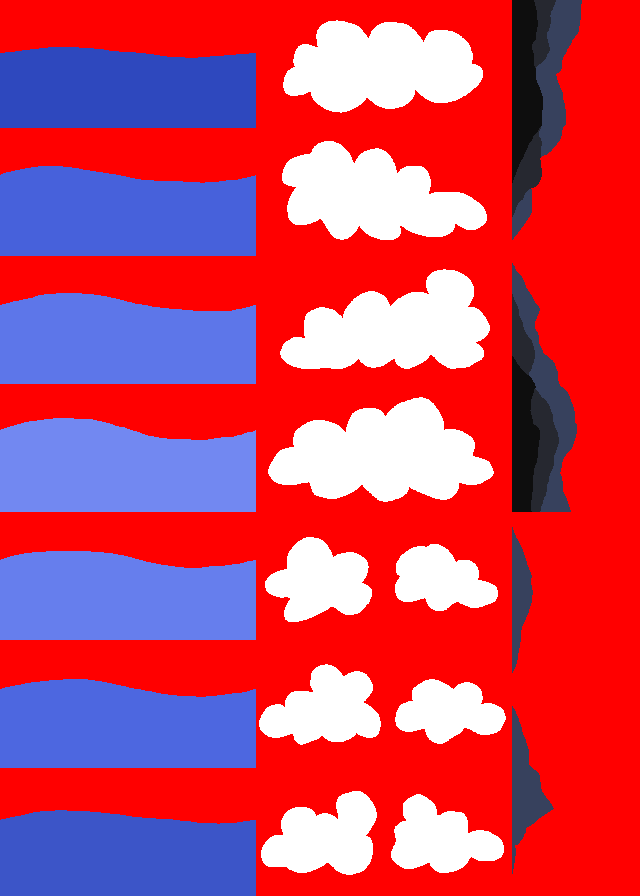
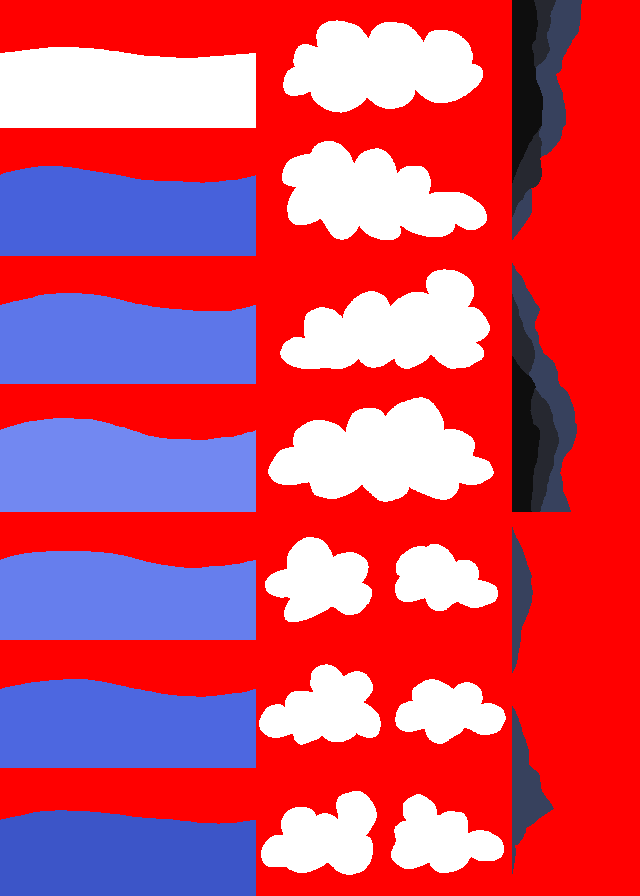
* changed wave sprites for background to be generated in a similar way to sortie select by recoloring a master wave sprite * this enables recoloring the wave sprite for different weather conditions * fixed a bug where the player could reassign the shipgirl target during attack animation, which cause

Changed region(s): [[0.0, 0.0312, 0.4062, 0.1562]]

diff --git a/src/menus/encounter_menu.py b/src/menus/encounter_menu.py
@@ -59,11 +59,12 @@ class BackgroundProp:
 class Background:
     Y_GAP = 48
 
-    def __init__(self, sky_colors):
+    def __init__(self, sky_colors, wave_sprites):
         self.set_sky_colors(sky_colors)
+        self.wave_sprites = wave_sprites
         num_waves = DataFiles.sprites["background"]["num_waves"]
         self.wave_ys = [
-            screen_y(0.5) + self.Y_GAP*(i-num_waves/2)
+            screen_y(0.5) + self.Y_GAP*(i-num_waves/2) + 8
             for i in range(num_waves)
         ]
         self.wave_timers = [
@@ -80,6 +81,9 @@ class Background:
         for y, color in enumerate(sky_colors):
             sky_surf.set_at((0, y), color)
         self.sky_surf = pygame.transform.smoothscale(sky_surf, (128, 256))
+
+    def set_wave_sprites(self, weather):
+        self.wave_sprites = DataFiles.sprites["background"]["wave_sets"][weather]
 
     def update(self, dt):
         num_waves = DataFiles.sprites["background"]["num_waves"]
@@ -131,22 +135,24 @@ class Background:
         else:
             shipgirl_draw_indices = None
 
+        landmark_y = self.wave_ys[0] - 4
+
         left_landmarks = DataFiles.sprites["background"]["left_landmarks"]
         left_landmarks_rect = left_landmarks.get_rect()
         left_landmarks_rect.left = screen_x(0)
-        left_landmarks_rect.centery = self.wave_ys[0]
+        left_landmarks_rect.centery = landmark_y
         surface.blit(left_landmarks, left_landmarks_rect)
 
         middle_landmarks = DataFiles.sprites["background"]["middle_landmarks"]
         middle_landmarks_rect = middle_landmarks.get_rect()
         middle_landmarks_rect.centerx = screen_x(0.5)
-        middle_landmarks_rect.centery = self.wave_ys[0]
+        middle_landmarks_rect.centery = landmark_y
         surface.blit(middle_landmarks, middle_landmarks_rect)
         
         right_landmarks = DataFiles.sprites["background"]["right_landmarks"]
         right_landmarks_rect = right_landmarks.get_rect()
         right_landmarks_rect.right = screen_x(1)
-        right_landmarks_rect.centery = self.wave_ys[0]
+        right_landmarks_rect.centery = landmark_y
         surface.blit(right_landmarks, right_landmarks_rect)
 
         num_waves = DataFiles.sprites["background"]["num_waves"]
@@ -166,7 +172,7 @@ class Background:
                         siren.battle_component.draw_battlestation(surface, font_registry, siren.rect)
 
             move_amt = i / num_waves
-            wave = DataFiles.sprites["background"][f"wave{i}"]
+            wave = self.wave_sprites[i]
             wave_rect = wave.get_rect()
             wave_rect.top = wave_y + 4 * (move_amt + 1) * math.sin(2*wave_timer)
             centerx = 64 * (move_amt + 1) * math.sin(wave_timer) + screen_x(0.5)
@@ -364,7 +370,10 @@ class EncounterMenu:
             ) for slot in self.fleet_slots
         ]
 
-        self.background = Background(self.TIME_WEATHER_STYLES[self.time_weather]["sky_colors"])
+        self.background = Background(
+            self.TIME_WEATHER_STYLES[self.time_weather]["sky_colors"],
+            DataFiles.sprites["background"]["wave_sets"][self.time_weather],
+        )
 
     def roll_time_weather(self):
         weather_names = list(self.TIME_WEATHER_STYLES.keys())
@@ -378,6 +387,7 @@ class EncounterMenu:
     def apply_time_weather_style(self):
         weather_style = self.TIME_WEATHER_STYLES[self.time_weather]
         self.background.set_sky_colors(weather_style["sky_colors"])
+        self.background.set_wave_sprites(self.time_weather)
 
     def begin_sortie(self):
         self.roll_time_weather()
@@ -431,21 +441,20 @@ class EncounterMenu:
                 self.return_to_port_button.hover(event.pos)
             if event.type == pygame.MOUSEBUTTONDOWN:
                 for i, shipgirl in enumerate(self.menu_manager.player_fleet.shipgirls):
-                    if (
-                        shipgirl is not None
-                        and (
-                            not shipgirl.battle_component.active
-                            or (
-                                shipgirl.battle_component.active
-                                and shipgirl.battle_component.attack_timer <= 0
-                            )
-                        )
-                        and shipgirl.rect.collidepoint(event.pos)
-                    ):
-                        self.mouse_start_drag = shipgirl.rect.center
-                        self.selected_shipgirl = shipgirl
-                        self.selected_shipgirl_index = i
-                        self.selected_shipgirl.battle_component.target = None
+                    if shipgirl is None:
+                        continue
+                    if not shipgirl.battle_component.active:
+                        continue
+                    if shipgirl.battle_component.attack_animation:
+                        continue
+                    if shipgirl.battle_component.attack_timer > 0:
+                        continue
+                    if not shipgirl.rect.collidepoint(event.pos):
+                        continue
+                    self.mouse_start_drag = shipgirl.rect.center
+                    self.selected_shipgirl = shipgirl
+                    self.selected_shipgirl_index = i
+                    self.selected_shipgirl.battle_component.target = None
             if event.type == pygame.MOUSEBUTTONUP:
                 mouse_end_drag = event.pos
                 click = False

diff --git a/src/constants.py b/src/constants.py
@@ -214,19 +214,42 @@ create_shell_sprite("normal", (255, 242, 97))
 create_shell_sprite("HE", (255, 0, 64))
 create_shell_sprite("AP", (0, 255, 255))
 
-def create_background_wave_sprite(wave_index):
-    wave = DataFiles.sprites["background"][f"wave{wave_index}"]
+def create_background_wave_sprite(wave_color):
+    wave = DataFiles.sprites["background"]["wave"]
     higher_wave = pygame.Surface((wave.get_width(), 2*wave.get_height()))
-    wave_color = wave.get_at((0, wave.get_height()-1))
     higher_wave.fill(wave_color)
-    wave.set_colorkey(wave_color)
+    wave.set_colorkey((255,255,255))
     higher_wave.blit(wave, (0,0))
     higher_wave.set_colorkey((255,0,0))
-    DataFiles.sprites["background"][f"wave{wave_index}"] = higher_wave
+    return higher_wave
 
 DataFiles.sprites["background"]["num_waves"] = 7
-for wave_index in range(DataFiles.sprites["background"]["num_waves"]):
-    create_background_wave_sprite(wave_index)
+background_wave_palettes = {
+    "daytime": {
+        "darkest": (60, 85, 200),
+        "lightest": (114, 136, 241),
+    },
+    "nighttime": {
+        "darkest": (13, 18, 64),
+        "lightest": (56, 50, 128),
+    },
+    "stormy": {
+        "darkest": (43, 72, 91),
+        "lightest": (94, 143, 153),
+    },
+}
+DataFiles.sprites["background"]["wave_sets"] = {}
+for weather, palette in background_wave_palettes.items():
+    DataFiles.sprites["background"]["wave_sets"][weather] = []
+    for wave_index in range(DataFiles.sprites["background"]["num_waves"]):
+        center_index = (DataFiles.sprites["background"]["num_waves"] - 1) / 2
+        t = 1 - abs(wave_index - center_index) / center_index
+        wave_color = tuple(
+            int(dark + (light - dark) * t)
+            for dark, light in zip(palette["darkest"], palette["lightest"])
+        )
+        wave = create_background_wave_sprite(wave_color)
+        DataFiles.sprites["background"]["wave_sets"][weather].append(wave)
 
 def create_cloud_shadow_sprite(cloud_index):
     cloud = DataFiles.sprites["background"][f"cloud{cloud_index}"]

diff --git a/src/shipgirls.py b/src/shipgirls.py
@@ -682,6 +682,7 @@ class PlayerFleet:
         for shipgirl in self.shipgirls:
             if shipgirl is not None:
                 shipgirl.battle_component.target = None
+                shipgirl.battle_component.attack_animation = False
                 shipgirl.battle_component.attack_timer = 0
                 shipgirl.battle_component.active = False
 
@@ -777,6 +778,8 @@ class SirenFleet:
     def end_encounter(self):
         for siren in self.fleet:
             siren.battle_component.target = None
+            siren.battle_component.attack_animation = False
+            siren.battle_component.attack_timer = 0
             siren.battle_component.active = False
 
     def update(self, dt, menu_manager, vfx_manager):
